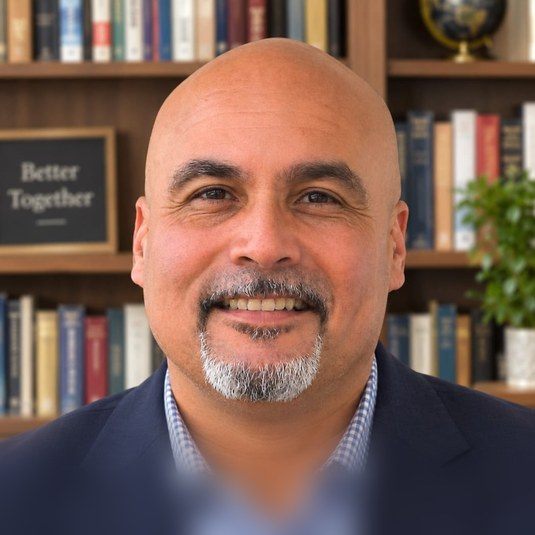
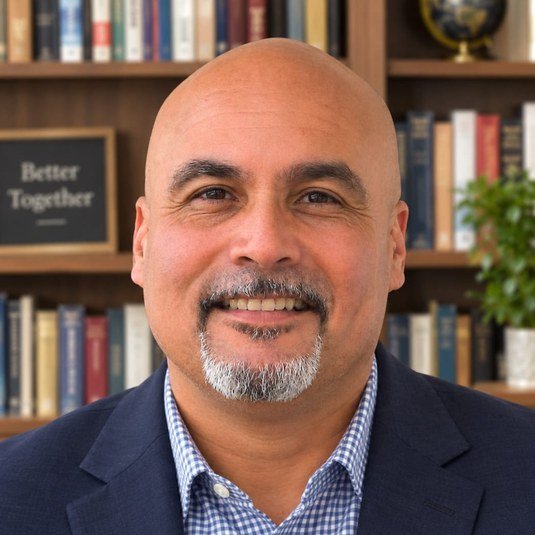
About: Ismael Adorno photo without bottom blur
Claude-Session: https://claude.ai/code/session_01YXHXMRuwfuFx1RTxhNLRGp

Changed region(s): [[0.2991, 0.7776, 0.7178, 1.0]]

diff --git a/about.html b/about.html
@@ -141,7 +141,7 @@ a{color:#2F4858}a:hover{color:#1E3240}
     <div style="display: grid; grid-template-columns: repeat(auto-fit, minmax(260px, 1fr)); gap: 24px">
             <div style="display: flex; flex-direction: column; gap: 10px"><img src="assets/pastor-tricia.jpg" alt="Pastor Tricia Persram" width="535" height="535" loading="lazy" style="width: 100%; height: auto; aspect-ratio: 1 / 1; object-fit: cover; border-radius: 14px; display: block"><span style="font-family: 'Libre Baskerville', serif; font-size: 20px; font-weight: 700">Tricia Persram</span><span style="font-size: 16px; color: #4F6676">Family Care Pastor</span><span style="font-size: 15px; line-height: 1.5; color: #3B5566">Oversees Children, Youth &amp; Next Generation and Care &amp; Compassion</span></div>
       <div style="display: flex; flex-direction: column; gap: 10px"><img src="assets/pastor-dan.jpg" alt="Pastor Dan Nuñez" width="535" height="535" loading="lazy" style="width: 100%; height: auto; aspect-ratio: 1 / 1; object-fit: cover; border-radius: 14px; display: block"><span style="font-family: 'Libre Baskerville', serif; font-size: 20px; font-weight: 700">Dan Nuñez</span><span style="font-size: 16px; color: #4F6676">Connection Pastor</span><span style="font-size: 15px; line-height: 1.5; color: #3B5566">Oversees Fellowship, Evangelism &amp; Missions and Community Transformation</span></div>
-      <div style="display: flex; flex-direction: column; gap: 10px"><img src="assets/admin-ismael.jpg?v=3" alt="Ismael Adorno, Church Administrator" width="535" height="535" loading="lazy" style="width: 100%; height: auto; aspect-ratio: 1 / 1; object-fit: cover; border-radius: 14px; display: block"><span style="font-family: 'Libre Baskerville', serif; font-size: 20px; font-weight: 700">Ismael Adorno</span><span style="font-size: 16px; color: #4F6676">Church Administrator</span><span style="font-size: 15px; line-height: 1.5; color: #3B5566">Supports our pastors and the church family through church operations and administration</span></div>
+      <div style="display: flex; flex-direction: column; gap: 10px"><img src="assets/admin-ismael.jpg?v=4" alt="Ismael Adorno, Church Administrator" width="535" height="535" loading="lazy" style="width: 100%; height: auto; aspect-ratio: 1 / 1; object-fit: cover; border-radius: 14px; display: block"><span style="font-family: 'Libre Baskerville', serif; font-size: 20px; font-weight: 700">Ismael Adorno</span><span style="font-size: 16px; color: #4F6676">Church Administrator</span><span style="font-size: 15px; line-height: 1.5; color: #3B5566">Supports our pastors and the church family through church operations and administration</span></div>
     </div>
   </section>
 
